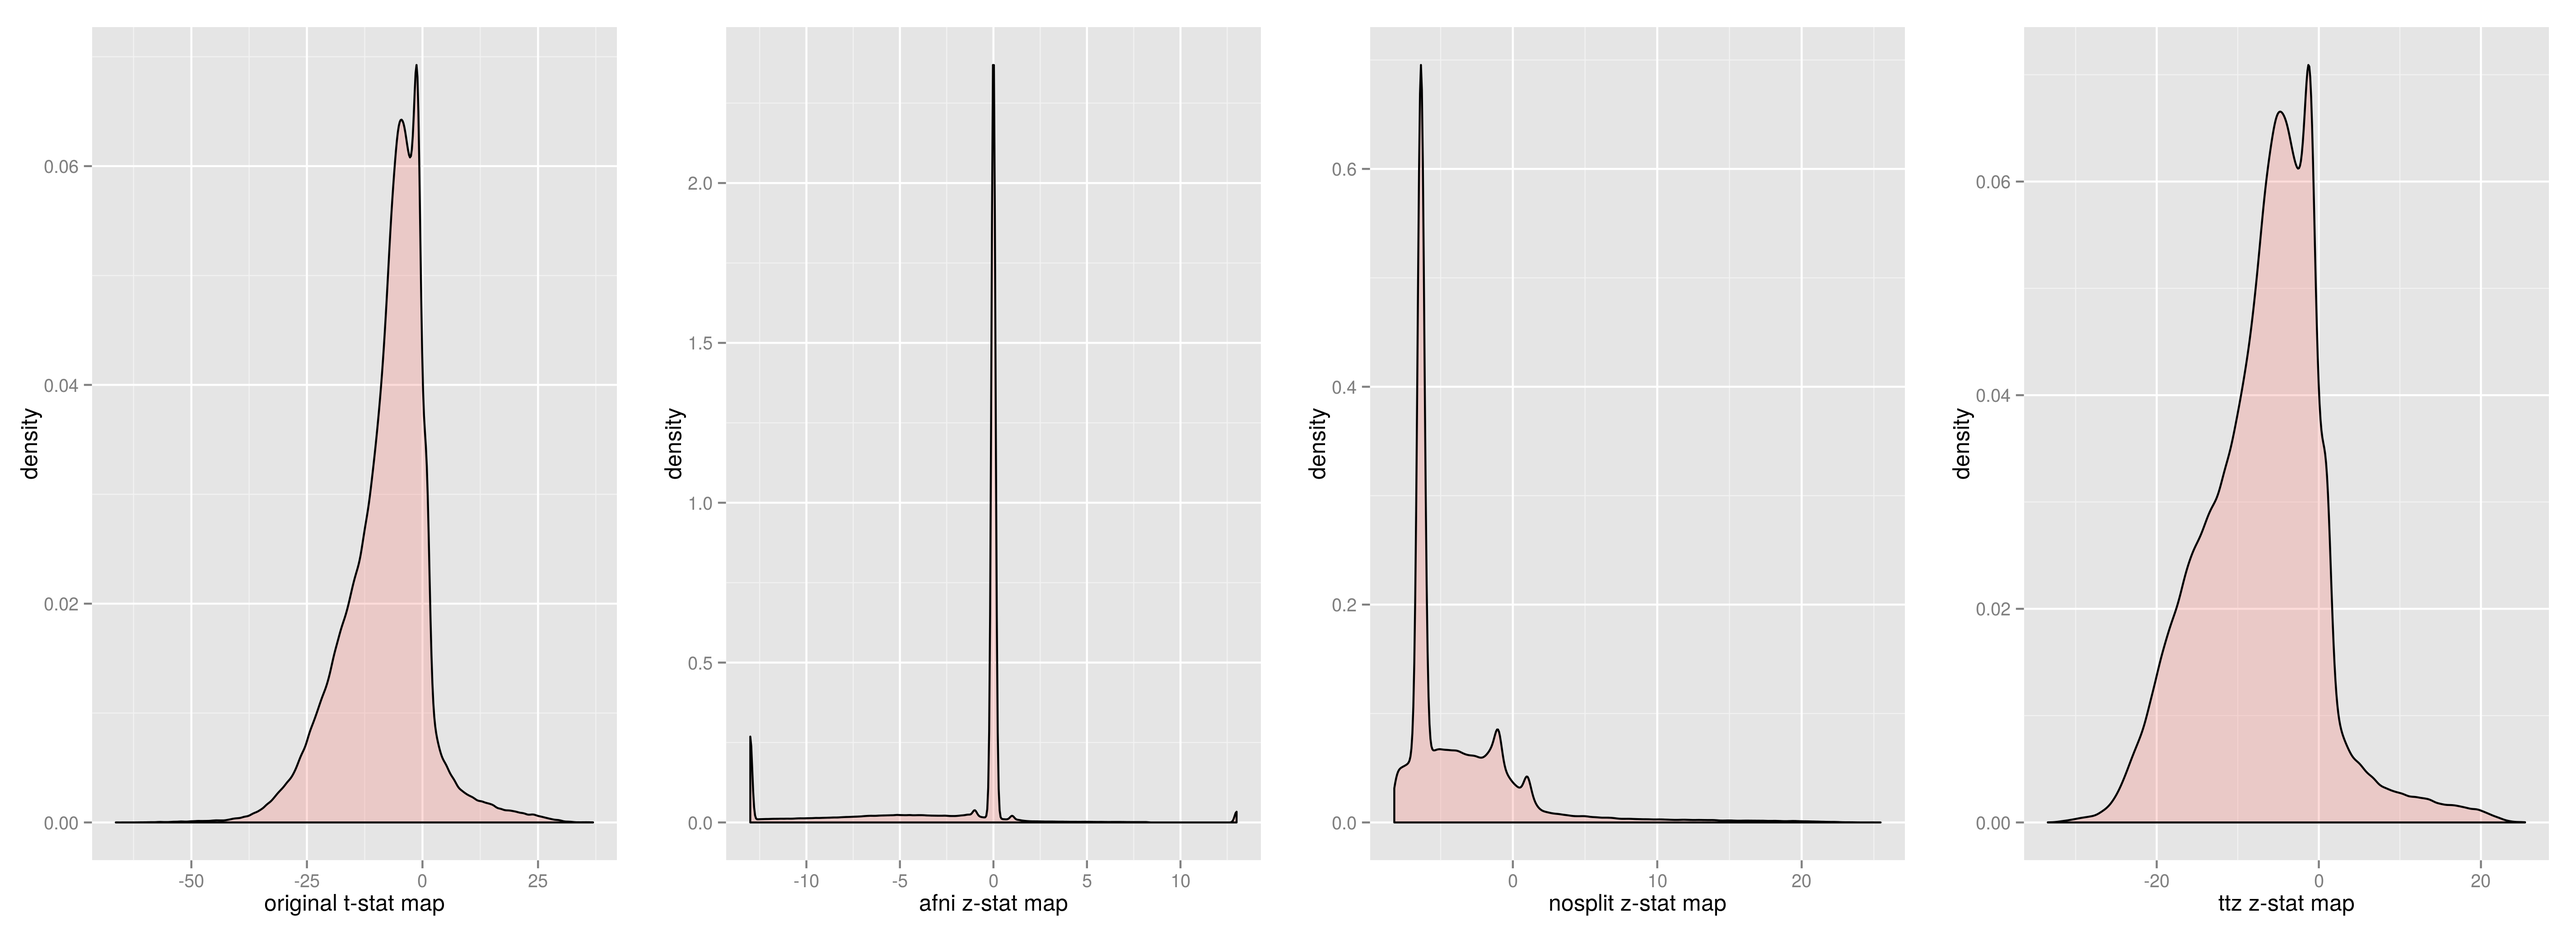
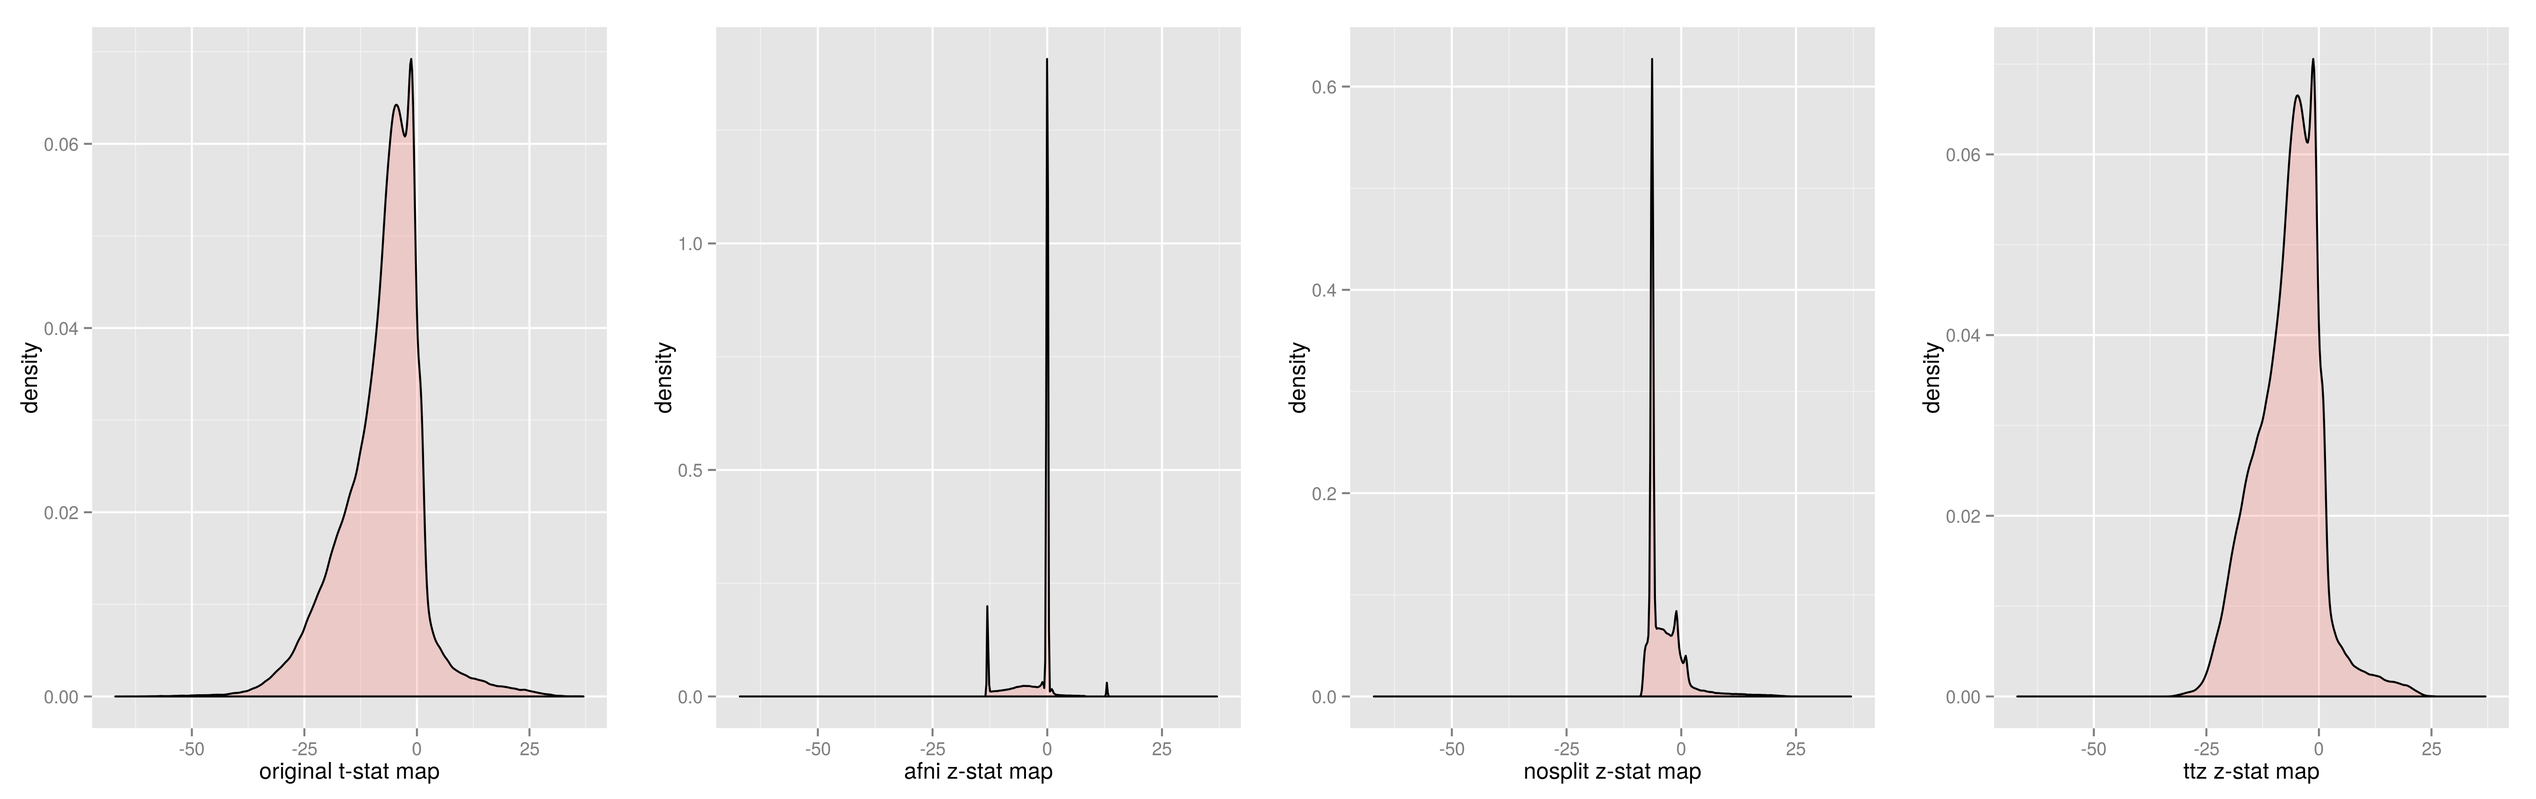
updating image to have consistent X range

diff --git a/README.md b/README.md
@@ -15,7 +15,7 @@ Here we show the image histograms (from mricron) for:
 
 2) and 3) have truncation of the distributions.  For both 3) and 4) it was also necessary to convert p-values exactly == 1 to 0.999999, as a value of exactly 1 will be converted to inf when converted to the standard normal score.
 
-Note that the y-axis scale for the second image, 3dcalc, extends to a density of 2.0 due to the number of zeros that are replaced to prevent error. We chose a consistent y-axis scale up to 0.8 for the other images, otherwise we would not be able to see the distributions. 
+Note that the y-axis scales are slightly different, most noticably for the second image, 3dcalc, which extends to a density of 2.0 due to the number of zeros that are replaced to prevent error. 
 
 # Installation
 
